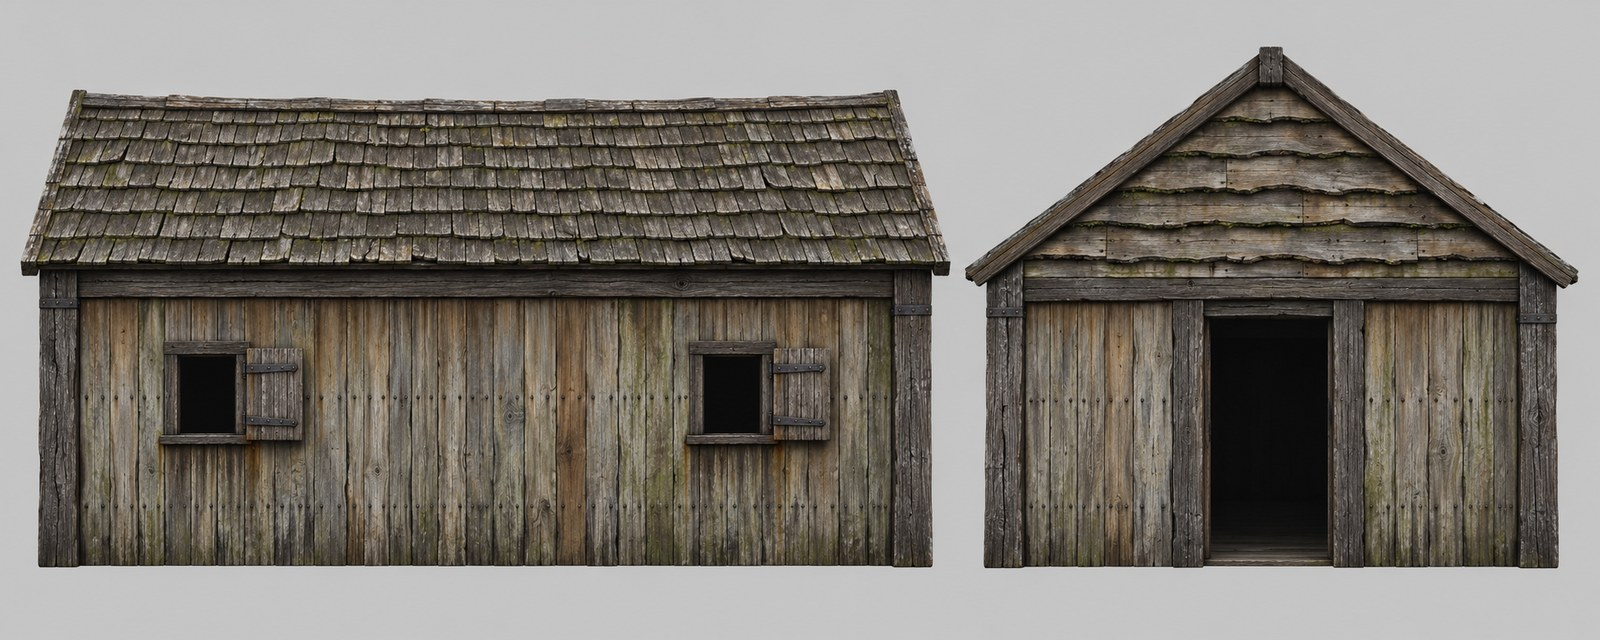
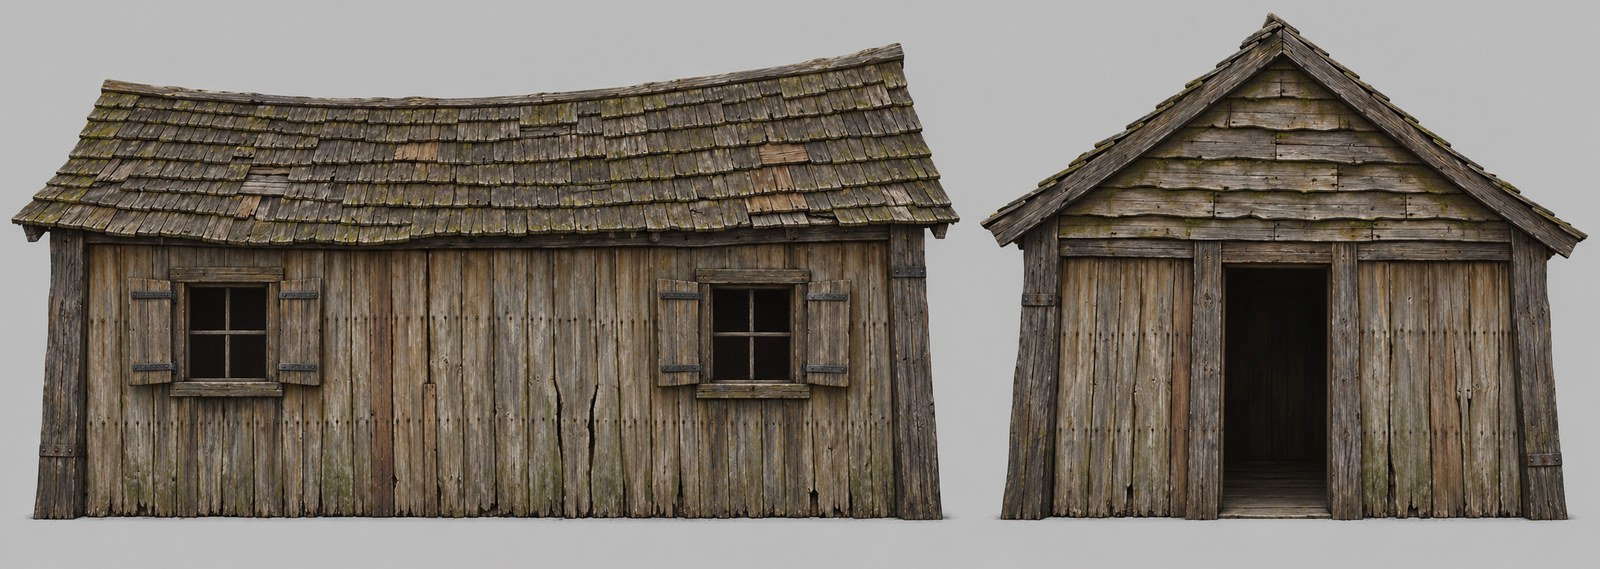
report: harbour hut concept attempt 2 (larger windows, crooked hut)

diff --git a/reports/content/2026-10-harbour-hut-concept/README.md b/reports/content/2026-10-harbour-hut-concept/README.md
@@ -42,10 +42,10 @@
 На хижине поле 234–249 × 272 см закрывает почти весь квадрат текстуры. Видны U 0,10…0,95 и V 0,05…0,97, V идёт сверху вниз; пол на V ≈ 0,80. Ниже V 0,80 стена уходит в землю.
 
 - Те же доски, что в `HOLZWAND_01`, с тем же шагом. Края квадрата — обычные доски.
-- В середине по ширине — небольшой квадратный проём около 65 × 70 см. Верх рамы на V ≈ 0,21 (175 см над полом), подоконник на V ≈ 0,48 (95 см над полом).
-- Рама проёма — простой дуб 10–12 см: перемычка, два косяка, подоконник с небольшим выносом.
-- Одна ставня из вертикальных досок на кованых петлях открыта и лежит плашмя на стене справа от проёма.
-- В проёме темнота комнаты.
+- В середине по ширине — проём около 90 × 100 см. Верх рамы на V ≈ 0,17 (185 см над полом), подоконник на V ≈ 0,55 (75 см над полом). Размер взят с оригинала: на игровом кадре его остеклённый проём около 1,1 × 1,1 м в дощатой обкладке шириной около 1,9 м. Первый концепт с проёмом 65 × 70 см пользователь счёл слишком мелким.
+- Рама проёма — широкие дубовые доски около 15 см: перемычка, два косяка, подоконник с выносом. Рама чуть перекошена, как вся хижина.
+- В проёме простой деревянный крест из двух брусков, за ним темнота комнаты.
+- Две ставни из вертикальных досок на кованых петлях, по одной с каждой стороны, открыты и лежат плашмя на стене. Каждая шириной около 45 см, вся группа — около 2,1 м и помещается в видимую часть квадрата. Правая ставня висит чуть криво на разболтанной петле.
 - Под подоконником тёмные потёки от дождя, у петель ржавые следы.
 
 ### Фронтон: `HAFEN_GIEBEL_01`
@@ -70,22 +70,32 @@
 
 ## Концепт
 
-![Концепт хижины: длинная сторона и торец со входом](hut-concept.jpg)
+![Концепт хижины, попытка 2: длинная сторона и торец со входом](hut-concept.jpg)
 
-Один вызов `image_gen` только по тексту этой концепции, в чистом треде (пустой каталог, без файлов и картинок). На одном листе два ортогональных вида: длинная сторона с двумя окнами и торец со входом и фронтоном. Первая попытка прошла все пункты проверки, вторая не понадобилась. Исходный PNG и точный промпт лежат в `content-sources/harbour-hut-concept/`. Копия на dev-ubuntu сверена по SHA-256: 2/2 файла совпали.
+Вызовы `image_gen` только по тексту этой концепции, в чистом треде (пустой каталог, без файлов и картинок). На одном листе два ортогональных вида: длинная сторона с двумя окнами и торец со входом и фронтоном.
+
+[Попытка 1](hut-concept-attempt-1.jpg) прошла проверку, но пользователь её не принял. Окна вышли мельче, чем в оригинальном дизайне, а хижина — слишком ровной. В оригинале крыша просела и покосилась, есть лёгкая асимметрия, и ряд ровных хижин потерял бы ощущение бедного квартала. Попытка 2 сделана по новому промпту:
+- конёк просел и опущен к одному концу, карниз волнистый;
+- стойки чуть завалены, обвязка выгнута, фронтон немного несимметричен;
+- доски разной ширины и не параллельны, щели разные, есть вставки и прибитая поверх щели планка;
+- окна крупнее, в перекошенных рамах, с двумя ставнями и крестом в проёме.
+
+Исходные PNG и точные промпты обеих попыток лежат в `content-sources/harbour-hut-concept/`. Копия на dev-ubuntu сверена по SHA-256: 4/4 файла совпали.
 
 **Ждёт решения пользователя.**
 
 Что концепт задаёт для текстур:
-- доски по ~30 см, серые с коричневыми заменёнными досками, тёмные щели и ряды гвоздей;
+- доски разной ширины, в среднем около 30 см: серые, местами с коричневыми заменёнными досками, неровные щели, вставки, ряды гвоздей;
 - старение по доскам, без полос по высоте;
-- маленькие окна в дубовой раме с открытой ставней, вокруг доски;
-- фронтон из досок внахлёст с корой на кромках и мхом в тени нахлёста;
+- окна в перекошенной дубовой раме с двумя открытыми ставнями и крестом, вокруг доски;
+- фронтон из досок внахлёст с корой на кромках, ряды не совсем ровные, мох в тени нахлёста;
 - тяжёлый тёмный дуб каркаса с железными накладками, тот же, что у дома у рынка.
 
 Что игра так не покажет:
-- **Высота стены.** На концепте стена выше (около 3 м против 2,2 м над полом). Для текстур это неважно: квадрат `HOLZWAND` — 3 × 3 м, и поле хижины занимает его почти целиком.
-- **Окно по высоте.** Окно на концепте стоит чуть выше, чем в обмере. В текстуре его ставим по обмеру: верх рамы на V ≈ 0,21, подоконник на V ≈ 0,48.
+- **Кривизна дома.** Просевший конёк, волнистый карниз и завал стоек в игре задаёт сама геометрия хижины: обмер показывает уклоны скатов 26,5–31,6° и неровный карниз. Текстуры добавляют неровность досок, рам и ставен.
+- **Гнилые концы досок у земли.** Низ поля на хижине уходит в землю, а `HOLZWAND_01` повторяется по высоте на высоких стенах, поэтому рваных концов в текстурах нет. Доски идут через весь квадрат.
+- **Высота стены.** На концепте стена выше (около 2,75 м против 2,2 м над полом). Для текстур это неважно: квадрат `HOLZWAND` — 3 × 3 м, и поле хижины занимает его почти целиком.
+- **Окно по высоте.** Окно в текстуре ставим по обмеру: верх рамы на V ≈ 0,17, подоконник на V ≈ 0,55.
 - **Крыша, стойки, обвязка.** Это отдельная геометрия со своими текстурами: `ROOF_01` и `WOODBEAM_02` уже приняты в house-2. Концепт показывает их только для цельности дома.
 
 Пользователь правит или принимает. Текстуры `HOLZWAND_01`, `HOLZWAND_02`, `GIEBEL_01` и `WOODBEAM_01` потом выводятся из принятого концепта в том же треде, как правки его изображения. `WOODBEAM_02` и `ROOF_01` уже приняты в house-2 и не меняются.
